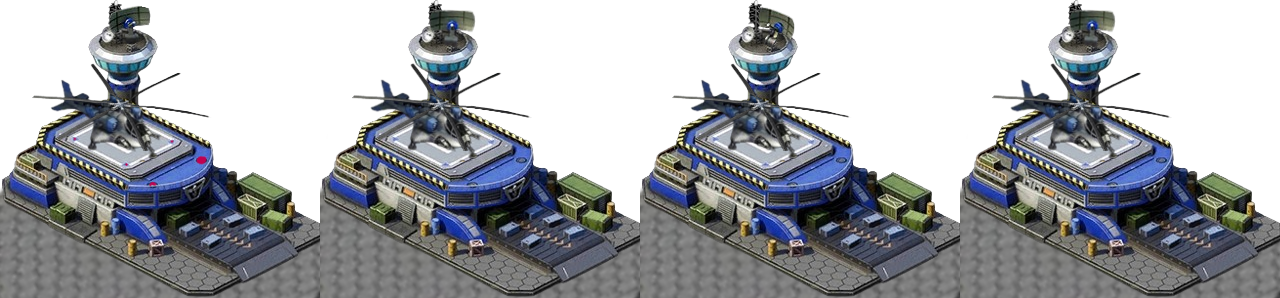
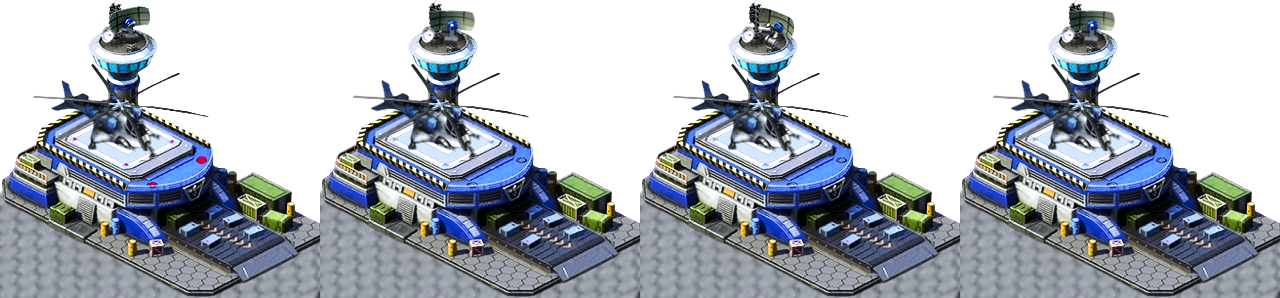
update: unit spawn when build barack tower

diff --git a/src/Controller/TowerController.ts b/src/Controller/TowerController.ts
@@ -1,25 +1,35 @@
-import { FireBulletOption, GetTowerBasesFn, GetTowerFromPoolFn, ReturnTowerToPoolFn, TowerInformation, TowerType } from '../Type';
+import { FireBulletOption, GetTowerBasesFn, GetTowerFromPoolFn, GetUnitFromPoolFn, ReturnTowerToPoolFn, ReturnUnitToPoolFn, TowerInformation, TowerType, UnitType } from '../Type';
 import { Tower } from '../ObjectsPool/Tower/Tower';
 import { PointData, Sprite } from 'pixi.js';
 import Emitter from '../Util';
 import { AppConstants } from '../GameScene/Constants';
 import { sound } from '@pixi/sound';
 import { GameMap } from '../GameScene/Map/Map';
+import { ControlUnit } from 'src/ObjectsPool/ControlUnit/ControlUnit';
 
 export class TowerController {
     private _towers: Tower[] = [];
+    private _units: ControlUnit[] = [];
     private _getTowerFromPool: GetTowerFromPoolFn;
     private _returnTowerToPool: ReturnTowerToPoolFn;
     private _getTowerBases: GetTowerBasesFn;
-    constructor(getTowerFromPoolCallBack: GetTowerFromPoolFn, returnTowerToPoolCallback: ReturnTowerToPoolFn, getTowerBasesCallBack: GetTowerBasesFn) {
+    private _getUnitFromPool: GetUnitFromPoolFn;
+    private _returnUnitToPool: ReturnUnitToPoolFn;
+    constructor(getTowerFromPoolCallBack: GetTowerFromPoolFn, returnTowerToPoolCallback: ReturnTowerToPoolFn, getTowerBasesCallBack: GetTowerBasesFn, getUnitFromPoolCallBack: GetUnitFromPoolFn, returnUnitToPoolCallBack: ReturnUnitToPoolFn) {
         this._getTowerFromPool = getTowerFromPoolCallBack;
         this._returnTowerToPool = returnTowerToPoolCallback;
         this._getTowerBases = getTowerBasesCallBack;
+        this._getUnitFromPool = getUnitFromPoolCallBack;
+        this._returnUnitToPool = returnUnitToPoolCallBack;
         this._useEventEffect();
     }
 
     get towers(): Tower[] {
         return this._towers;
+    }
+
+    get units(): ControlUnit[] {
+        return this._units;
     }
 
     /**
@@ -75,10 +85,15 @@ export class TowerController {
         });
         this._towers.push(tower);
 
+        if (tower.towerType === TowerType.barack) {
+            this._createUnit(UnitType.helicopter, tower.position, tower.id);
+        }
+
 
         // use event emitter add tower to game
         Emitter.emit(AppConstants.event.addChildToScene, tower.image);
         Emitter.emit(AppConstants.event.addChildToScene, tower.circleImage);
+        Emitter.emit(AppConstants.event.reduceGold, AppConstants.towerPrice[tower.towerType]);
         tower.toggleCircle(false);
 
         // play sound
@@ -124,6 +139,16 @@ export class TowerController {
 
         // play sound
         sound.play(AppConstants.soundName.mainSound, { sprite: AppConstants.soundName.soldTower });
+    }
+
+    private _createUnit(unitType: UnitType, position: PointData, towerId: number) {
+        const unit = this._getUnitFromPool(unitType);
+
+        unit.position = position;
+        unit.id = towerId;
+        unit.setAnimation(AppConstants.moveAnimationName.moveDown, true);
+        Emitter.emit(AppConstants.event.addChildToScene, unit.image);
+        this._units.push(unit);
     }
 
     private _useEventEffect() {
@@ -179,7 +204,6 @@ export class TowerController {
     private _changeMatrixMap(isBuilding: boolean, info: {position: PointData[], buildingSize: PointData}): PointData[] | undefined {
         const matrixValue = isBuilding ? AppConstants.matrixMapValue.tower : AppConstants.matrixMapValue.availableTowerBuild;
         const matrixPoint: PointData = { x: info.position[0].x / AppConstants.matrixSize, y: info.position[0].y / AppConstants.matrixSize };
-        console.log(GameMap.mapMatrix);
 
         if (isBuilding) {
             return this._buildTower(matrixPoint, info.buildingSize, matrixValue);
@@ -200,9 +224,6 @@ export class TowerController {
                 basesPosition.push(basePosition);
             }
         }
-
-        console.log(GameMap.mapMatrix);
-
         return basesPosition;
     }
 
@@ -217,6 +238,10 @@ export class TowerController {
     public update(dt: number) {
         this._towers.forEach(tower => {
             tower.update(dt);
+        });
+
+        this._units.forEach(unit => {
+            unit.update(dt);
         });
     }
 }

diff --git a/src/GameScene/Map/Map.ts b/src/GameScene/Map/Map.ts
@@ -9,7 +9,7 @@ import { CollisionController } from '../../Controller/CollisionController';
 import { TowerController } from '../../Controller/TowerController';
 import { ObjectPool } from '../../ObjectsPool/ObjectPool';
 import { Bullet } from '../../ObjectsPool/Bullet';
-import { BulletType, TowerType } from '../../Type';
+import { BulletType, TowerType, UnitType } from '../../Type';
 import Emitter from '../../Util';
 import { EnemiesController } from '../../Controller/EnemiesController';
 import { sound } from '@pixi/sound';
@@ -42,7 +42,7 @@ export class GameMap extends Container {
         this._objectPool = new ObjectPool();
 
         // create controllers
-        this._towerController = new TowerController(this._getTowerFromPool.bind(this), this._returnTowerToPool.bind(this), this._getTowerBase.bind(this));
+        this._towerController = new TowerController(this._getTowerFromPool.bind(this), this._returnTowerToPool.bind(this), this._getTowerBase.bind(this), this._getUnitFromPool.bind(this), this._returnUnitToPool.bind(this));
         this._enemiesController = new EnemiesController(this._getEnemiesFromPool.bind(this), this._returnEnemiesToPool.bind(this), this._getExplosionFromPool.bind(this), this._returnExplosionToPool.bind(this));
         this._bulletController = new BulletController(this._getBulletFromPool.bind(this), this._returnBulletToPool.bind(this));
         this._collisionController = new CollisionController(this._getObject.bind(this), this._getExplosionFromPool.bind(this), this._returnExplosionToPool.bind(this));
@@ -50,20 +50,6 @@ export class GameMap extends Container {
         this._init();
 
         this._startGame();
-        for (let i = 0; i < 5; i ++) {
-            const helicopter = new ControlUnit('helicopter', true);
-            helicopter.position = { x:  Math.random() * 200, y: 300 };
-            helicopter.image.zIndex = 960;
-            helicopter.image.width = 64;
-            helicopter.image.height = 64;
-            helicopter.setAnimation('move-down', true);
-
-            this._unit.push(helicopter);
-            helicopter.isMoving = true;
-
-            this.addChild(helicopter.image);
-        }
-
     }
 
     private _init() {
@@ -142,7 +128,7 @@ export class GameMap extends Container {
     }
 
     private _getObject(): {towers: Tower[], bullets: Bullet[], enemies: Enemies[], units: ControlUnit[]} {
-        return { towers: this._towerController.towers, bullets: this._bulletController.bullets, enemies: this._enemiesController.enemies, units: this._unit };
+        return { towers: this._towerController.towers, bullets: this._bulletController.bullets, enemies: this._enemiesController.enemies, units: this._towerController.units };
     }
 
     private _useEventEffect() {
@@ -227,6 +213,14 @@ export class GameMap extends Container {
 
     private _returnExplosionToPool(ex: AnimatedSprite, exType: BulletType) {
         this._objectPool.returnExplosion(ex, exType);
+    }
+
+    private _getUnitFromPool(unitType: UnitType): ControlUnit {
+        return this._objectPool.getUnit(unitType);
+    }
+
+    private _returnUnitToPool(unit: ControlUnit) {
+        this._objectPool.returnUnit(unit);
     }
 
     // update function

diff --git a/src/ObjectsPool/ObjectPool.ts b/src/ObjectsPool/ObjectPool.ts
@@ -1,4 +1,4 @@
-import { BulletType, TowerType } from '../Type';
+import { BulletType, TowerType, UnitType } from '../Type';
 import { Bullet } from '../ObjectsPool/Bullet';
 import { Enemies } from '../ObjectsPool/Enemies/Enemies';
 import { Tower } from '../ObjectsPool/Tower/Tower';
@@ -6,6 +6,7 @@ import { AppConstants } from '../GameScene/Constants';
 import Factory from '../ObjectsPool/Factory';
 import { AnimatedSprite } from 'pixi.js';
 import { AssetsLoader } from '../AssetsLoader';
+import { ControlUnit } from './ControlUnit/ControlUnit';
 
 export class ObjectPool {
     public static inst: ObjectPool;
@@ -13,6 +14,7 @@ export class ObjectPool {
     private _enemiesPool: Enemies[] = [];
     private _towerPool: {[towerType: string]: Tower[]} = {};
     private _explosionPool: {[explosionType: string]: AnimatedSprite[]} = {};
+    private _unitPool: {[unitType: string]: ControlUnit[]} = {};
 
     constructor() {
         ObjectPool.inst = this;
@@ -39,6 +41,14 @@ export class ObjectPool {
             for (let i = 0; i < AppConstants.bulletCount; i++) {
                 const tower = Factory.createTower(value);
                 this._towerPool[key].push(tower);
+            }
+        }
+
+        for (const [key, value] of Object.entries(UnitType)) {
+            this._unitPool[key] = [];
+            for (let i = 0; i < 5; i++) {
+                const unit = Factory.createUnit(value);
+                this._unitPool[key].push(unit);
             }
         }
 
@@ -95,6 +105,16 @@ export class ObjectPool {
         }
     }
 
+    public getUnit(unitType: UnitType) {
+        if (this._unitPool[unitType]?.length <= 0) {
+            const unit = Factory.createUnit(unitType);
+            return unit;
+        } else {
+
+            return this._unitPool[unitType].pop() as ControlUnit;
+        }
+    }
+
     public returnBullet(bullet: Bullet): void {
         this._bulletPool[bullet.bulletType].push(bullet);
     }
@@ -111,5 +131,7 @@ export class ObjectPool {
         this._explosionPool[exType].push(ex);
     }
 
-
+    public returnUnit(unit: ControlUnit) {
+        this._unitPool[unit._unitType].push(unit);
+    }
 }

diff --git a/src/ObjectsPool/ControlUnit/ControlUnit.ts b/src/ObjectsPool/ControlUnit/ControlUnit.ts
@@ -4,18 +4,23 @@ import { BaseObject } from '../BaseObject';
 import { PointData } from 'pixi.js';
 import { AssetsLoader } from '../../AssetsLoader';
 import { AppConstants } from '../../GameScene/Constants';
-import { Circle, EffectType, FireBulletOption, TowerType } from '../../Type';
+import { Circle, EffectType, FireBulletOption, TowerType, UnitType } from '../../Type';
 import { sound } from '@pixi/sound';
 
 export class ControlUnit extends BaseObject {
     private _targetPosition: PointData;
     private _targetID: number;
+    readonly _unitType: UnitType;
     public isMoving: boolean = false;
     private _fireTimeCD: {fireTimeConst: number, fireTimeCount: number} = { fireTimeConst: 1000, fireTimeCount: 0 };
-    constructor(textureName: string, isAnimationSprite?: boolean) {
-        super(textureName, isAnimationSprite);
+    constructor(unitType: UnitType, isAnimationSprite?: boolean) {
+        super(unitType, isAnimationSprite);
+        this._unitType = unitType;
         this.moveEngine = new BaseEngine(false);
         this.speed = 150;
+        this.image.zIndex = 960;
+        this.image.width = AppConstants.matrixSize * 2;
+        this.image.height = AppConstants.matrixSize * 2;
         this._useEventEffect();
     }
 

diff --git a/src/ObjectsPool/Factory.ts b/src/ObjectsPool/Factory.ts
@@ -1,4 +1,4 @@
-import { BulletType, EnemiesType, TowerType } from '../Type';
+import { BulletType, EnemiesType, TowerType, UnitType } from '../Type';
 import { Bullet } from '../ObjectsPool/Bullet';
 import { Tower } from '../ObjectsPool/Tower/Tower';
 import { CrystalMaiden } from '../ObjectsPool/Tower/CrystalMaiden';
@@ -7,6 +7,7 @@ import { Tinker } from '../ObjectsPool/Tower/Tinker';
 import { Enemies } from '../ObjectsPool/Enemies/Enemies';
 import { ClockWerk } from '../ObjectsPool/Tower/ClockWerk';
 import { Barack } from './Tower/Barack';
+import { ControlUnit } from './ControlUnit/ControlUnit';
 
 export default class Factory {
     public static instance: Factory;
@@ -101,5 +102,10 @@ export default class Factory {
         //         return tank3;
         //     default:
         // }
+    }
+
+    public static createUnit(type: UnitType): ControlUnit {
+        const unit = new ControlUnit(type, true);
+        return unit;
     }
 }

diff --git a/src/Type.ts b/src/Type.ts
@@ -106,6 +106,10 @@ export interface CreateEnemiesOption {
     eneCount?: number
 }
 
+export enum UnitType {
+    helicopter = 'helicopter'
+}
+
 export type GetTowerFromPoolFn = (towerType: TowerType) => Tower;
 export type GetEnemiesFromPoolFn = () => Enemies;
 export type GetBulletFromPoolFn = (bulletType: BulletType) => Bullet;
@@ -119,3 +123,5 @@ export type GetPlayerGoldFn = () => number;
 export type GetExplosionFromPoolFn = (exType: string) => AnimatedSprite;
 export type ReturnExplosionToPoolFn = (ex: AnimatedSprite, exType: string) => void;
 export type GetTowerBasesFn = (position: PointData[]) => Sprite[];
+export type GetUnitFromPoolFn = (unitType: UnitType) => ControlUnit;
+export type ReturnUnitToPoolFn = (unit: ControlUnit) => void;

diff --git a/src/ObjectsPool/Tower/Tower.ts b/src/ObjectsPool/Tower/Tower.ts
@@ -16,6 +16,7 @@ export class Tower extends BaseObject {
     protected fireTimeCd: FireTime= { fireTimeConst: 0, fireTimeCount: 0 };
     protected target: PointData;
     protected isFireAble: boolean = true;
+    protected isSpawnUnit: boolean = false;
     public time: number = 0;
     private _level: number = 1;
     public baseTower: Sprite[] = [];

diff --git a/src/GameScene/UI/BuildTowerBoard.ts b/src/GameScene/UI/BuildTowerBoard.ts
@@ -90,7 +90,6 @@ export class BuildTowerBoard extends Container {
 
         // in case enough gold
         Emitter.emit(AppConstants.event.createTower, { towerType: towerType, baseTower: this._baseTower });
-        Emitter.emit(AppConstants.event.reduceGold, goldCost);
         Emitter.emit(AppConstants.event.resetBoard, null);
     }
 }
